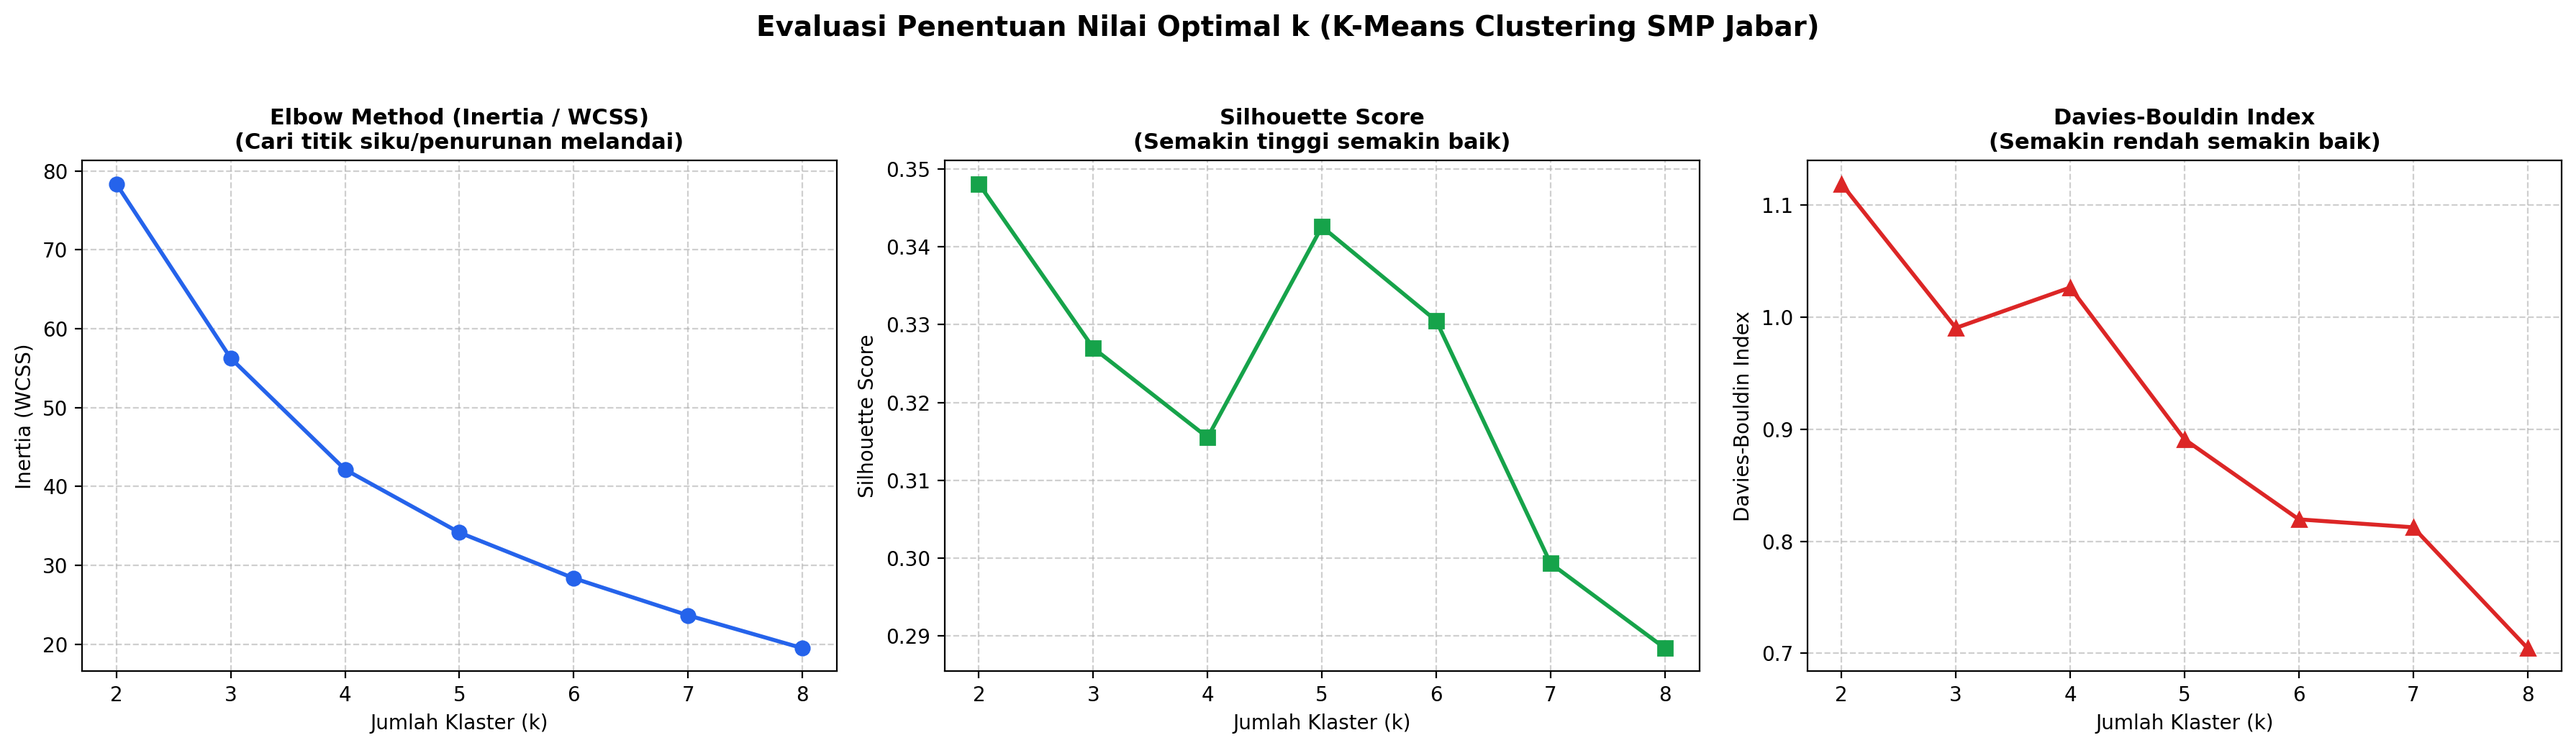
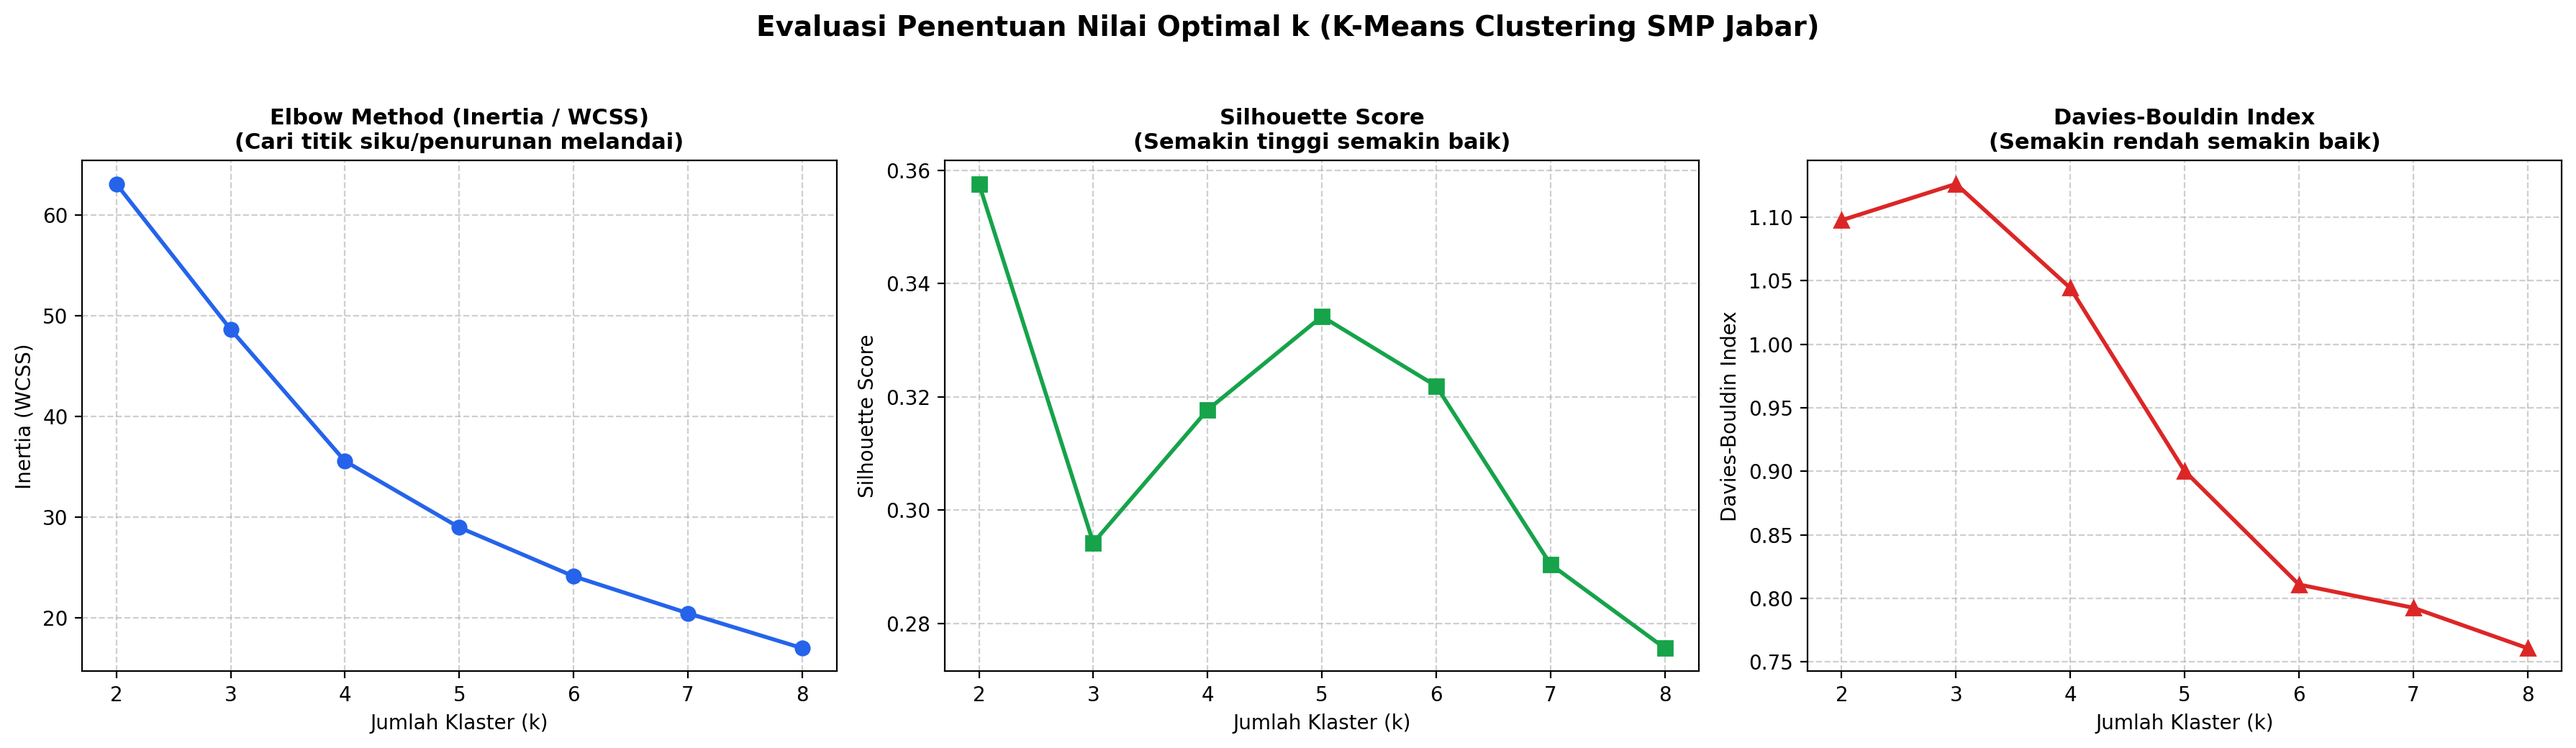
remove: fitur rerata_tka_bind

diff --git a/clustering/kmeans_clustering.py b/clustering/kmeans_clustering.py
@@ -22,7 +22,6 @@ df_raw = pd.read_csv(DATA_RAW_PATH)
 
 fitur = [
     "tka_rerata_mtk",
-    "tka_rerata_bind",
     "rasio_murid_guru",
     "rasio_murid_sekolah",
     "pct_penduduk_miskin"
@@ -38,20 +37,28 @@ labels_k3 = kmeans_3.fit_predict(X)
 kmeans_4 = KMeans(n_clusters=4, random_state=42, n_init=10)
 labels_k4 = kmeans_4.fit_predict(X)
 
-# 4. Tentukan Label Deskriptif untuk k=3
-# Cari karakteristik masing-masing klaster berdasarkan nilai rata-rata
+# 4. Tentukan Label Deskriptif untuk k=3 (Pendekatan Dinamis/Ranking)
 temp_df = df_raw.copy()
 temp_df["temp_cluster"] = labels_k3
 mean_stats = temp_df.groupby("temp_cluster")[fitur].mean()
 
-label_mapping = {}
-for c_id, row in mean_stats.iterrows():
-    if row["tka_rerata_mtk"] > 42.0:
-        label_mapping[c_id] = "Klaster 1: Wilayah Maju"
-    elif row["rasio_murid_guru"] > 20.0:
-        label_mapping[c_id] = "Klaster 2: Wilayah Darurat Sarana Prasarana"
-    else:
-        label_mapping[c_id] = "Klaster 3: Wilayah Rentan dan Terpencil"
+# Cari cluster dengan rata-rata MTK tertinggi untuk Klaster 1
+maju_cid = mean_stats["tka_rerata_mtk"].idxmax()
+sisa_cids = [c for c in mean_stats.index if c != maju_cid]
+
+# Dari sisa cluster, cari yang rasio_murid_guru tertinggi untuk Klaster 2
+if mean_stats.loc[sisa_cids[0], "rasio_murid_guru"] > mean_stats.loc[sisa_cids[1], "rasio_murid_guru"]:
+    sarpras_cid = sisa_cids[0]
+    rentan_cid = sisa_cids[1]
+else:
+    sarpras_cid = sisa_cids[1]
+    rentan_cid = sisa_cids[0]
+
+label_mapping = {
+    maju_cid: "Klaster 1: Wilayah Maju",
+    sarpras_cid: "Klaster 2: Wilayah Darurat Sarana Prasarana",
+    rentan_cid: "Klaster 3: Wilayah Rentan dan Terpencil"
+}
 
 # 5. Gabungkan Hasil Klasterisasi ke Dataset Final
 hasil_df = df_raw.copy()
@@ -80,14 +87,13 @@ print("\n=== ANGGOTA KABUPATEN/KOTA PER KLASTER ===")
 for nama_klaster, grup in hasil_df.groupby("nama_klaster_k3"):
     print(f"\n[{nama_klaster}] (Total: {len(grup)} daerah)")
     print(", ".join(grup["nama_pendek"].tolist()))
-
 # 7. Visualisasi Hasil Klasterisasi
 fig, axes = plt.subplots(2, 2, figsize=(16, 13))
 
 warna_klaster = {
-    "Klaster 1: Wilayah Maju": "#2563eb",                      # Biru (Maju/Stabil)
-    "Klaster 2: Wilayah Darurat Sarana Prasarana": "#f59e0b",   # Amber / Oranye (Peringatan Sarpras)
-    "Klaster 3: Wilayah Rentan dan Terpencil": "#dc2626"       # Merah (Prioritas Afirmasi)
+    "Klaster 1: Wilayah Maju": "#2563eb",                      # Biru
+    "Klaster 2: Wilayah Darurat Sarana Prasarana": "#f59e0b",   # Amber / Oranye
+    "Klaster 3: Wilayah Rentan dan Terpencil": "#dc2626"       # Merah
 }
 
 # Subplot 1: TKA MTK vs Persentase Kemiskinan
@@ -118,7 +124,7 @@ ax2.set_ylabel("Rasio Murid per Guru")
 ax2.grid(True, linestyle="--", alpha=0.5)
 ax2.legend(loc="upper left", fontsize=8)
 
-# Subplot 3: Bar Chart Perbandingan Z-Score Centroid Antar-Klaster
+# Subplot 3: Bar Chart Perbandingan Z-Score Centroid Antar-Klaster (4 Fitur)
 ax3 = axes[1, 0]
 df_std_labeled = df_std.copy()
 df_std_labeled["nama_klaster_k3"] = hasil_df["nama_klaster_k3"]
@@ -126,7 +132,7 @@ centroid_z = df_std_labeled.groupby("nama_klaster_k3")[fitur].mean().T
 
 posisi = np.arange(len(fitur))
 lebar = 0.25
-fitur_labels = ["TKA MTK", "TKA B.Ind", "Rasio M/G", "Rasio M/S", "Pmiskin (%)"]
+fitur_labels = ["TKA MTK", "Rasio M/G", "Rasio M/S", "Pmiskin (%)"]
 
 for idx, (nama_klaster, nilai) in enumerate(centroid_z.items()):
     warna = warna_klaster.get(nama_klaster, "gray")
@@ -148,7 +154,14 @@ bar_colors = [warna_klaster.get(name, "gray") for name in klaster_names]
 
 bars = ax4.bar(range(len(klaster_names)), klaster_counts, color=bar_colors, width=0.55, edgecolor="black")
 ax4.set_xticks(range(len(klaster_names)))
-short_labels = ["Wilayah\nMaju", "Darurat\nSarpras", "Rentan &\nTerpencil"]
+
+short_label_map = {
+    "Klaster 1: Wilayah Maju": "Wilayah\nMaju",
+    "Klaster 2: Wilayah Darurat Sarana Prasarana": "Darurat\nSarpras",
+    "Klaster 3: Wilayah Rentan dan Terpencil": "Rentan &\nTerpencil"
+}
+short_labels = [short_label_map.get(name, name) for name in klaster_names]
+
 ax4.set_xticklabels(short_labels, fontsize=9, fontweight="bold")
 ax4.set_title("Distribusi Jumlah Kabupaten/Kota per Klaster (N=27)", fontsize=11, fontweight="bold")
 ax4.set_ylabel("Jumlah Kabupaten/Kota")

diff --git a/clustering/standarisasi.py b/clustering/standarisasi.py
@@ -11,7 +11,6 @@ df = pd.read_csv(DATA_PATH)
 # 2. Pilih lima fitur klasterisasi
 fitur = [
     "tka_rerata_mtk",
-    "tka_rerata_bind",
     "rasio_murid_guru",
     "rasio_murid_sekolah",
     "pct_penduduk_miskin"

diff --git a/clustering/evaluasi_k.py b/clustering/evaluasi_k.py
@@ -21,7 +21,6 @@ df = pd.read_csv(DATA_PATH)
 
 fitur = [
     "tka_rerata_mtk",
-    "tka_rerata_bind",
     "rasio_murid_guru",
     "rasio_murid_sekolah",
     "pct_penduduk_miskin"
